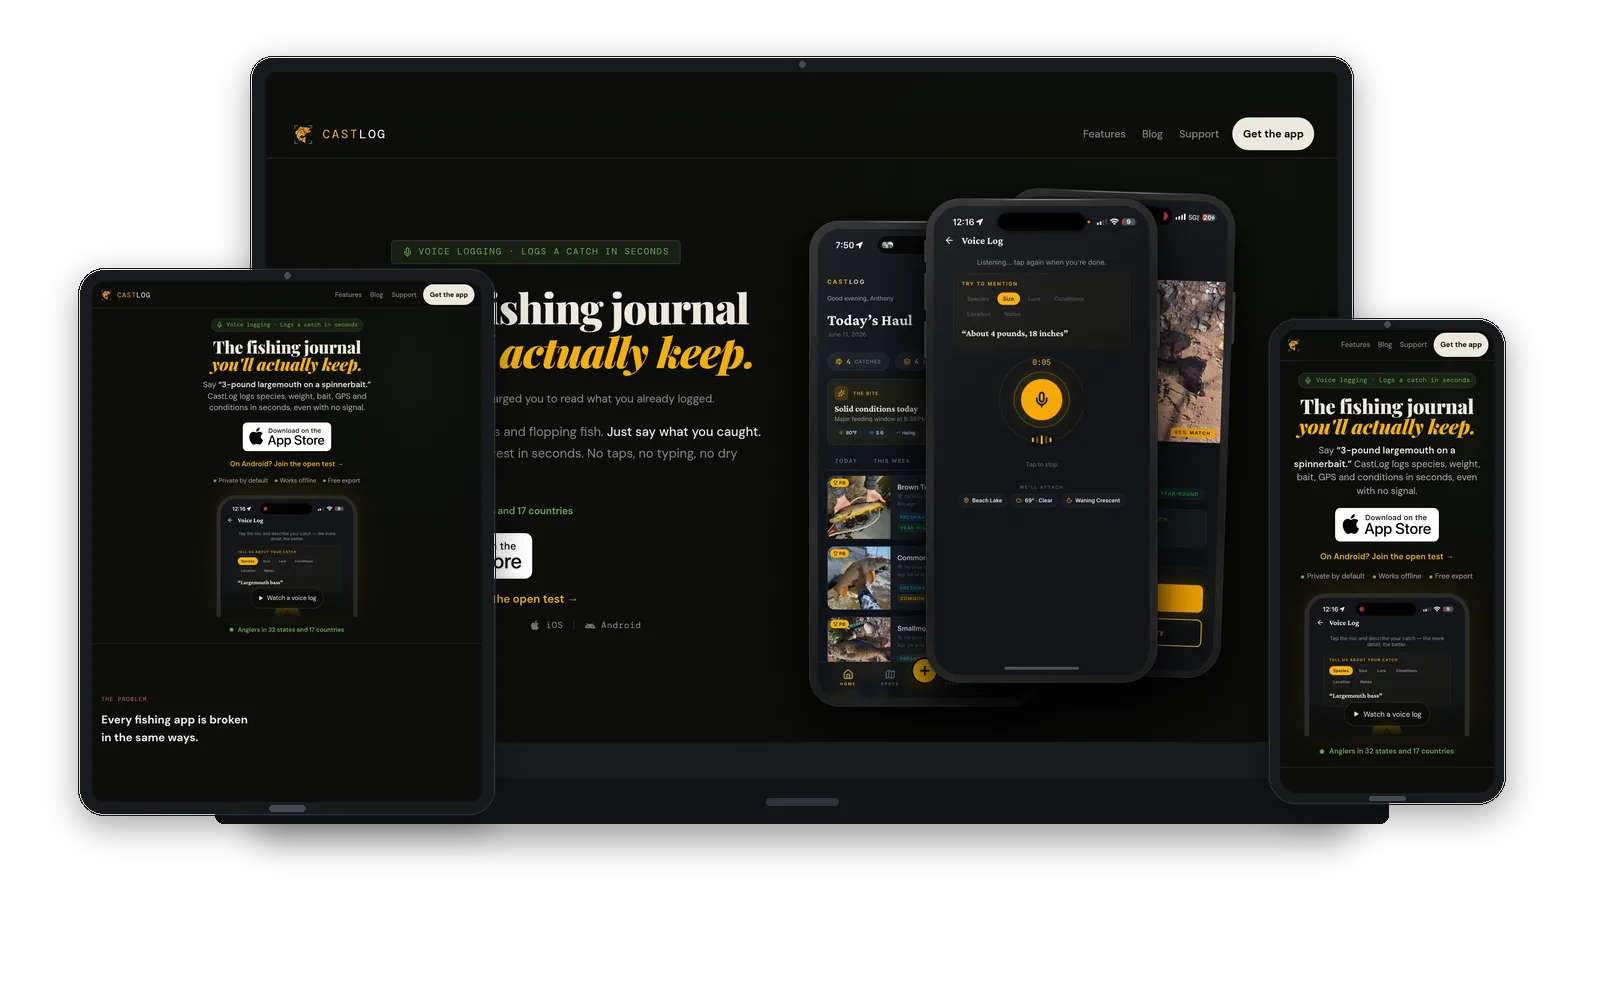
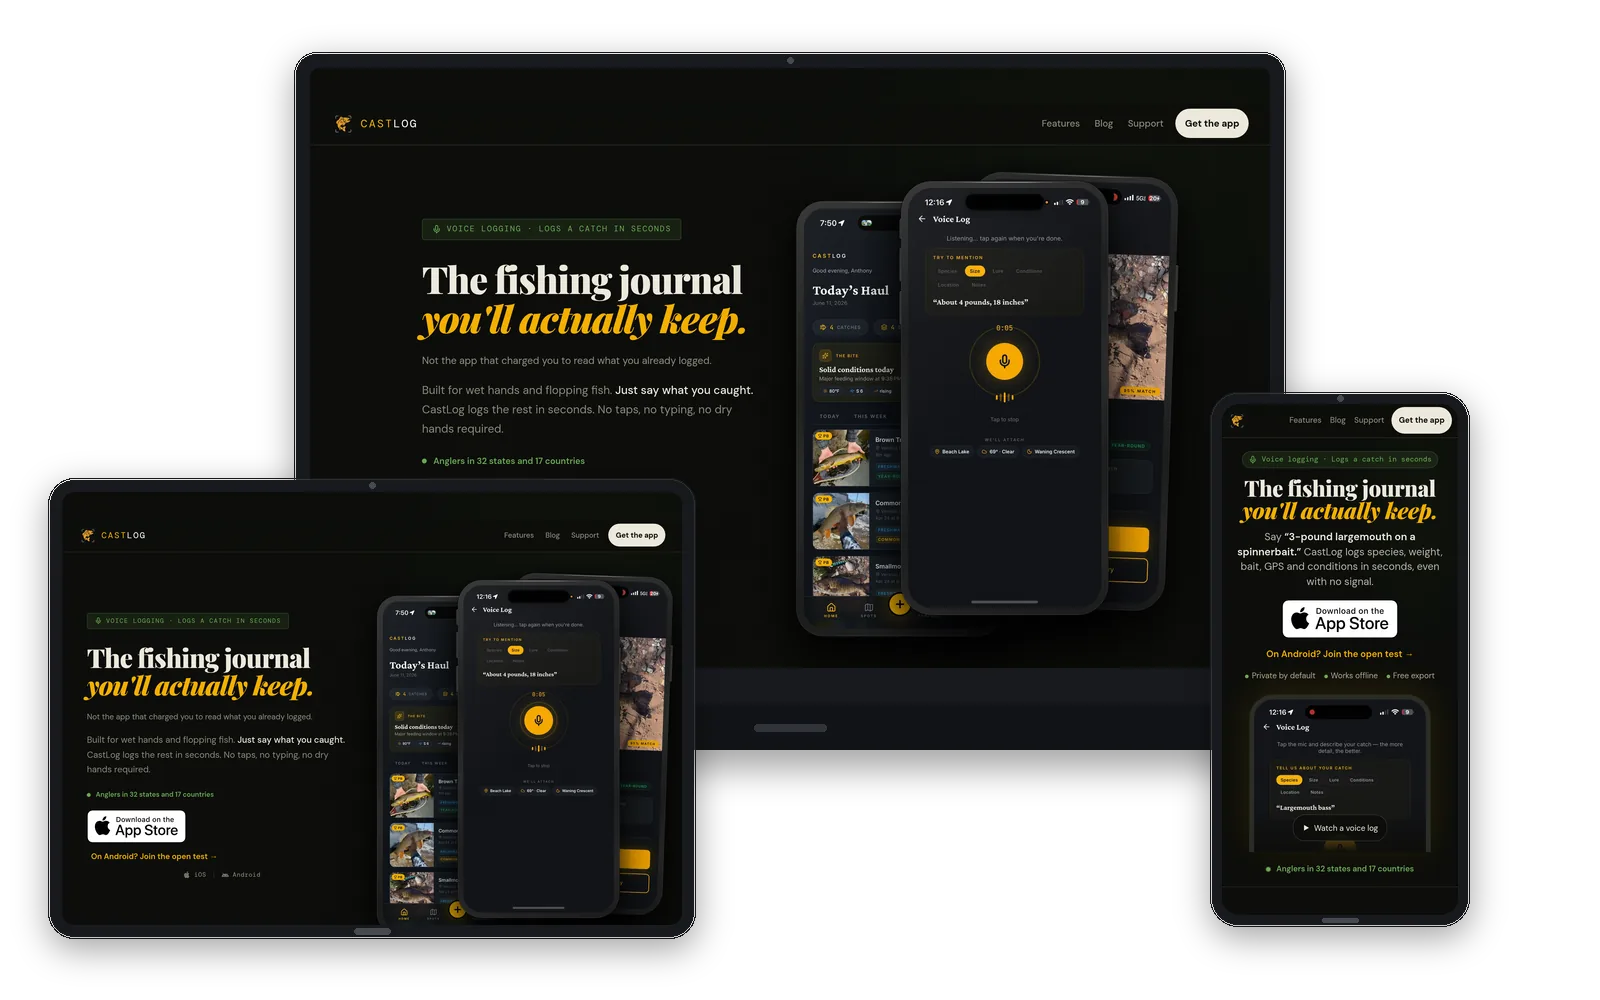
Use a landscape iPad in the device mockups.
The tablet capture is now a 1194×834 iPad, placed in front of the laptop so the laptop, tablet, and phone stay readable on a narrow card.

diff --git a/scripts/device-mockups.py b/scripts/device-mockups.py
@@ -34,21 +34,24 @@ PROJECTS = (
 )
 
 # Above-the-fold viewports. The composed canvas is identical for every project.
+# The tablet is a landscape iPad (1194×834 is 4:3).
 VIEWPORTS = (
     ("laptop", 1440, 900),
-    ("tablet", 834, 1112),
+    ("tablet", 1194, 834),
     ("phone", 390, 844),
 )
 
 CANVAS = (1600, 1000)
 CHROME_PORT = 9333
 
-# Shared layout, in canvas pixels. Laptop sits at the back; tablet and phone
-# overlap it in front. Screen boxes keep each capture's real aspect ratio.
+# Shared layout, in canvas pixels. Laptop sits at the back centre. The landscape
+# iPad overlaps at the front-left, lower; the phone overlaps at the front-right.
+# Screen boxes keep each capture's real aspect ratio so nothing is stretched.
+# Sizes stay readable when the 1600px canvas is shown at about 340px.
 LAYOUT = {
-    "laptop": {"x": 250, "y": 56, "screen": (1072, 670), "bezel": 16, "radius": 22, "chin": 28, "deck": 46},
-    "tablet": {"x": 78, "y": 268, "screen": (390, 520), "bezel": 14, "radius": 26, "chin": 0, "deck": 0},
-    "phone": {"x": 1268, "y": 318, "screen": (214, 463), "bezel": 12, "radius": 28, "chin": 0, "deck": 0},
+    "laptop": {"x": 294, "y": 52, "screen": (960, 600), "bezel": 16, "radius": 22, "chin": 28, "deck": 46},
+    "tablet": {"x": 48, "y": 478, "screen": (620, 433), "bezel": 14, "radius": 26, "chin": 0, "deck": 0},
+    "phone": {"x": 1210, "y": 392, "screen": (236, 511), "bezel": 12, "radius": 28, "chin": 0, "deck": 0},
 }
 
 BEZEL = (24, 26, 31, 255)
